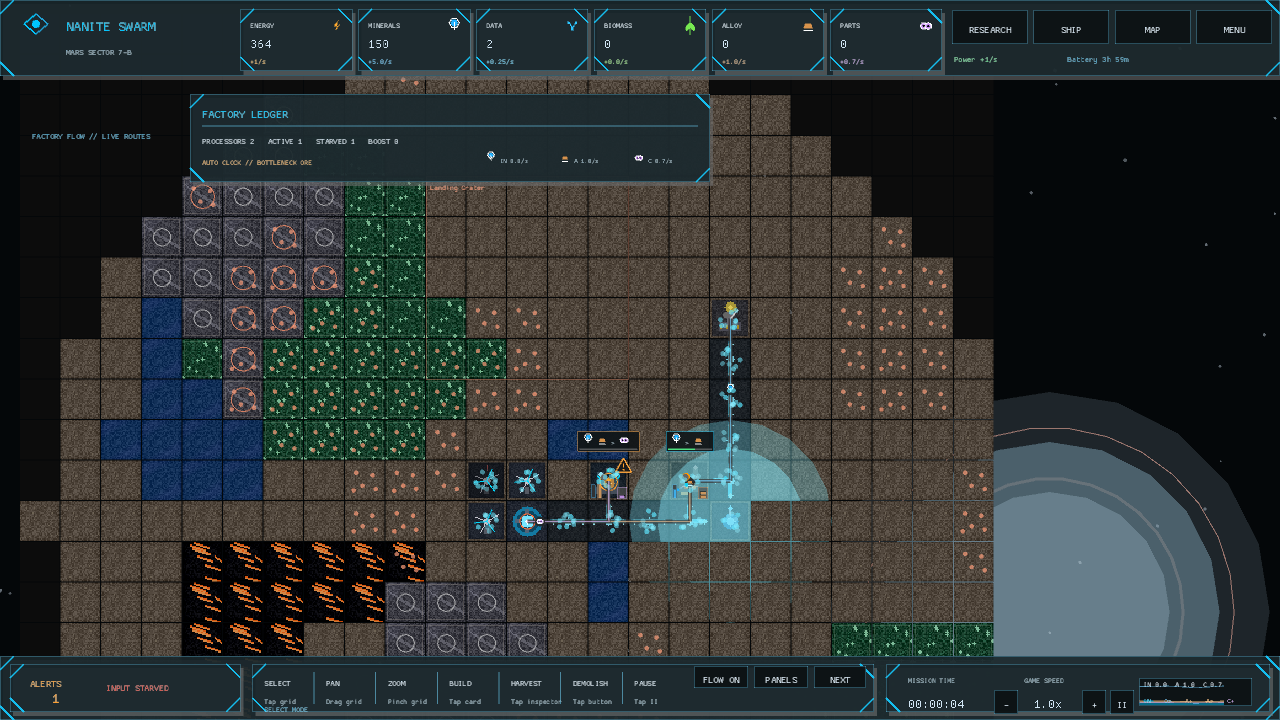
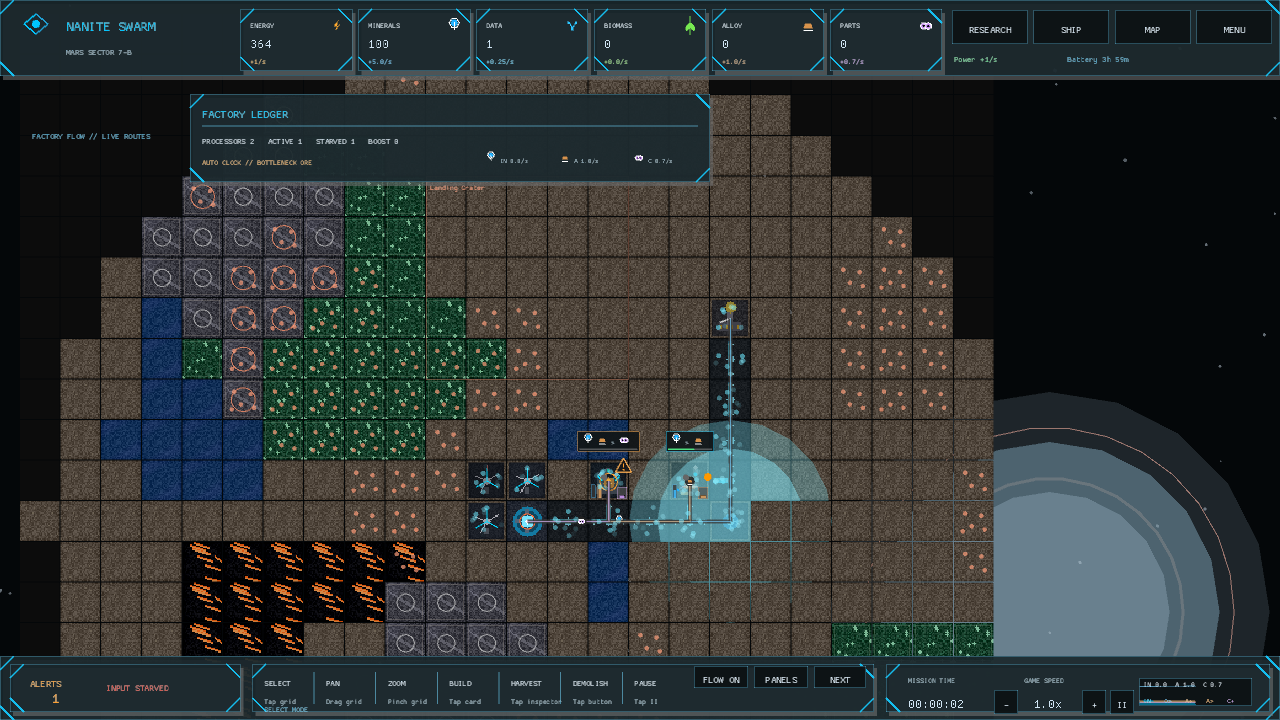
The drones feed the hungriest mouth first (demand-aware processor dispatch)
Nearest-first delivery could overfill one convenient processor while another sat empty, especially when several drones departed before earlier cargo arrived. Dispatch now compares seconds of committed supply in each hopper, including loads already in flight.

The leanest reachable consumer wins, with weighted route length and stable coordinates breaking comparable demand. FLOW uses the same dispatcher as simulation, and tests cover both stocked-near versus empty-far consumers and inbound cargo reservations.

diff --git a/src/state/logistics.rs b/src/state/logistics.rs
@@ -314,10 +314,10 @@ impl PlanetState {
     /// Where a load of ore from `from` should go, and how to get there.
     ///
     /// A processing building with room in its hopper takes priority over the
-    /// Core, nearest first, so a Smelter parked beside the drills is fed before
-    /// the ore ever reaches the pool. Placement is the decision; this only
-    /// reads it.
-    fn delivery_for(
+    /// Core. Lean hoppers are served before distance breaks the tie, including
+    /// loads already in flight, so parallel processors share supply instead of
+    /// one nearby machine quietly monopolising it.
+    pub(crate) fn delivery_for(
         &self,
         from: GridPos,
         core: GridPos,
@@ -328,7 +328,7 @@ impl PlanetState {
             .logistics
             .pad_depth
             .max(self.drones.drone_capacity * 3.0);
-        let mut best: Option<(GridPos, Vec<GridPos>)> = None;
+        let mut best: Option<((i32, usize, i32, i32), GridPos, Vec<GridPos>)> = None;
 
         for pos in self.consumers_of(resource) {
             let delivered = self
@@ -337,25 +337,57 @@ impl PlanetState {
                 .and_then(|hopper| hopper.get(&resource))
                 .copied()
                 .unwrap_or(0.0);
-            if delivered + self.drones.drone_capacity > hopper_ceiling {
+            let inbound: f32 = self
+                .drones
+                .drones()
+                .iter()
+                .filter(|drone| {
+                    drone.target == pos
+                        && drone.resource_type == resource
+                        && drone.carrying > 0.0
+                        && drone.state == DroneState::MovingToCore
+                })
+                .map(|drone| drone.carrying)
+                .sum();
+            let committed = delivered + inbound;
+            if committed + self.drones.drone_capacity > hopper_ceiling {
                 continue;
             }
             let Some(route) = route_over_network_weighted(&self.grid, from, pos, self.route_cost())
             else {
                 continue;
             };
-            if best
-                .as_ref()
-                .is_none_or(|(_, shortest)| route.len() < shortest.len())
-            {
-                best = Some((pos, route));
+            let consumption = self.consumer_rate(pos, resource).max(0.001);
+            let demand_band = (committed / consumption).floor() as i32;
+            let key = (demand_band, route.len(), pos.y, pos.x);
+            if best.as_ref().is_none_or(|(best_key, _, _)| key < *best_key) {
+                best = Some((key, pos, route));
             }
         }
 
-        best.or_else(|| {
+        best.map(|(_, pos, route)| (pos, route)).or_else(|| {
             route_over_network_weighted(&self.grid, from, core, self.route_cost())
                 .map(|route| (core, route))
         })
+    }
+
+    fn consumer_rate(&self, pos: GridPos, resource: ResourceType) -> f32 {
+        let Some(kind) = self
+            .grid
+            .get(pos)
+            .and_then(|tile| tile.building.as_ref())
+            .map(|building| building.building_type)
+        else {
+            return 1.0;
+        };
+        crate::data::game_data()
+            .building(kind.id())
+            .recipe
+            .inputs
+            .get(resource.id())
+            .copied()
+            .unwrap_or(1.0)
+            .max(0.001)
     }
 
     /// Powered buildings whose recipe eats ore.

diff --git a/src/screens/planetary_view/flow_render.rs b/src/screens/planetary_view/flow_render.rs
@@ -1,7 +1,7 @@
 //! Optional factory-flow overlay: live recipe nodes and intended supply runs.
 
 use crate::data::{RecipeDef, UiTheme};
-use crate::engine::{route_over_network, BuildingType, GridPos, ResourceType};
+use crate::engine::{BuildingType, GridPos, ResourceType};
 use crate::state::PlanetState;
 use crate::ui::{color_from_rgba, draw_hud_panel, draw_resource_icon, resource_color, Colors};
 use macroquad::prelude::*;
@@ -346,8 +346,6 @@ fn factory_flow_links(state: &PlanetState) -> Vec<FlowLink> {
         .filter(|pos| is_operational(state, *pos))
         .map(|pos| (pos, ResourceType::Minerals))
         .collect();
-    let mut consumers: Vec<(GridPos, ResourceType)> = Vec::new();
-
     for def in &crate::data::game_data().buildings {
         let Some(kind) = BuildingType::from_id(&def.id) else {
             continue;
@@ -363,25 +361,13 @@ fn factory_flow_links(state: &PlanetState) -> Vec<FlowLink> {
                 producers.extend(active.iter().copied().map(|pos| (pos, resource)));
             }
         }
-        for id in def.recipe.carried_ids() {
-            let Some(resource) = ResourceType::from_id(id) else {
-                continue;
-            };
-            consumers.extend(active.iter().copied().map(|pos| (pos, resource)));
-        }
     }
 
     let mut links = Vec::new();
     for (source, resource) in producers {
-        let target = consumers
-            .iter()
-            .filter(|(pos, wanted)| *wanted == resource && *pos != source)
-            .filter_map(|(pos, _)| {
-                route_over_network(&state.grid, source, *pos).map(|path| (*pos, path))
-            })
-            .min_by_key(|(_, path)| path.len())
-            .map(|(_, path)| path)
-            .or_else(|| route_over_network(&state.grid, source, core));
+        let target = state
+            .delivery_for(source, core, resource)
+            .map(|(_, path)| path);
         if let Some(mut path) = target {
             // Engine routes are walking instructions and therefore exclude
             // the source. The overlay is a diagram, so close that visual gap.

diff --git a/src/state/logistics/tests.rs b/src/state/logistics/tests.rs
@@ -118,6 +118,49 @@ fn a_resource_nothing_wants_still_goes_home_to_the_core() {
     assert_eq!(delivery.0, core);
 }
 
+fn two_smelter_run() -> (PlanetState, GridPos, GridPos, GridPos, GridPos) {
+    let (mut state, core, drill) = state_with_run(6);
+    let near = GridPos::new(core.x + 2, core.y - 1);
+    let far = GridPos::new(core.x + 4, core.y - 1);
+    for pos in [near, far] {
+        state.grid.get_mut(pos).unwrap().terrain = crate::engine::TerrainType::Empty;
+        assert!(state.grid.place_building(pos, BuildingType::Smelter));
+    }
+    state.grid.update_power_grid();
+    (state, core, drill, near, far)
+}
+
+#[test]
+fn the_leaner_processor_is_fed_before_the_nearer_one() {
+    let (mut state, core, drill, near, far) = two_smelter_run();
+    state.input_hoppers.insert(
+        (near.x, near.y),
+        [(ResourceType::Minerals, 12.0)].into_iter().collect(),
+    );
+
+    let delivery = state
+        .delivery_for(drill, core, ResourceType::Minerals)
+        .expect("processor delivery");
+    assert_eq!(delivery.0, far);
+}
+
+#[test]
+fn cargo_in_flight_counts_as_hopper_supply_for_dispatch() {
+    let (mut state, core, drill, near, far) = two_smelter_run();
+    let id = state.drones.spawn_drone(drill);
+    state.drones.get_drone_mut(id).unwrap().dispatch(
+        near,
+        vec![near],
+        10.0,
+        ResourceType::Minerals,
+    );
+
+    let delivery = state
+        .delivery_for(drill, core, ResourceType::Minerals)
+        .expect("processor delivery");
+    assert_eq!(delivery.0, far);
+}
+
 #[test]
 fn a_drill_on_a_deposit_cuts_more_than_one_on_ordinary_ground() {
     /// Ore banked in ten seconds by a drill on ground of this richness.

diff --git a/README.md b/README.md
@@ -34,6 +34,7 @@ Tap FLOW to open live supply routes and the factory ledger: processor health, th
 Use BOX SELECT to mark a factory block, then tap BOOST N or NORMAL N to change every selected processor together.
 Tap AUTO CLOCK to let the swarm boost only fed processors with spare power and low dust, normalizing them when those margins disappear.
 Processor tiles carry their own live art: colored intake tanks show separate recipe inputs, moving packets show active work, and output crates stack on the dispatch pad.
+Drone dispatch counts stock already in each hopper plus cargo still in flight, feeding the leanest processor before using route distance as a tie-breaker.
 
 Keyboard shortcuts are optional:
 
